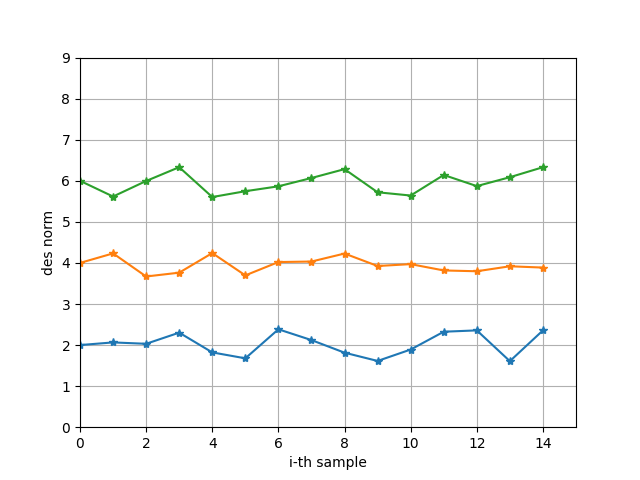
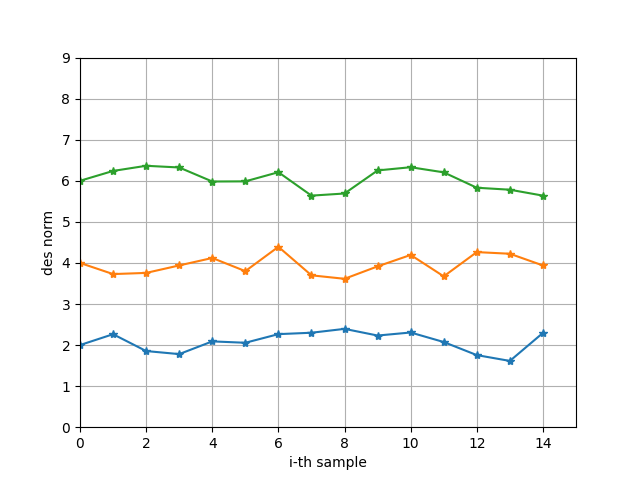
version demo funcional

diff --git a/src/estimate_trajectories.py b/src/estimate_trajectories.py
@@ -3,7 +3,7 @@
 
 import numpy as np
 import pandas as pd
-import random
+import os
 import matplotlib.pyplot as plt
 from generate_trajectories import TraGen
 from munkres import Munkres, print_matrix
@@ -51,11 +51,19 @@ class TraEstim:
         print(transitions.shape)
 
         estim_traj = self.estimate_trajectories(observations=pos_obs, op="hungarian")
-        # estim_traj = self.estimate_trajectories(observations=des_obs, op="hungarian")
         print(estim_traj)
         print(estim_traj.shape)
 
         self.plot_estimated_trajectories(pos_obs, estim_traj)
+        os.rename(
+            "plot_estimated_trajectories.png", "plot_estimated_trajectories_pos.png"
+        )
+
+        estim_traj = self.estimate_trajectories(observations=des_obs, op="hungarian")
+        self.plot_estimated_trajectories(pos_obs, estim_traj)
+        os.rename(
+            "plot_estimated_trajectories.png", "plot_estimated_trajectories_des.png"
+        )
 
     def plot_estimated_trajectories(
         self, observations: np.ndarray, estim_traj: np.ndarray
@@ -128,12 +136,12 @@ class TraEstim:
             obs1 = observations[:, si, :]
             obs0 = observations[:, si - 1, :]
             transitions = self.chose_predecessor(obs1, obs0, op=op)
-            print("transitions")
-            print(transitions)
+            # print("transitions")
+            # print(transitions)
             # print(transitions.shape)
 
             previous_bbox = transitions[:, 0]
-            print(previous_bbox)
+            # print(previous_bbox)
             estim_traj[:, si - 1] = previous_bbox
 
         return np.array(estim_traj)

diff --git a/README.md b/README.md
@@ -1,2 +1,26 @@
 # similarity_tracking
 Tracking bboxes using similarity meassures
+
+Esta pequeña demo busca validar conceptualmente un tracking de objetos basado en un detector (bbox) y un modelo descriptor (descriptor). La idea es minimizar el error al re-asignar los bboxes detectados en el frame actual al compararlos con el frame anterior. El error puede ser definido como la norma de la diferencia entre posiciones entre bboxes, pero tambien puedes ser incorporado el error en la diferencia de vectores descritpores. 
+
+La hipotesis subyacente es que minimzar el error en la posicion es suceptible a confusiones de objetos. En cambio esa confusion es minimizada al incorporar la medida de distancia entre vectores descriptores en cada frame y camparalo con los frames anteriores
+
+***La asignacio entre el frame actual y el anterior se hace con el método hungaro.***. 
+
+## Ejemplo de uso en una caminata aleatoria 
+
+Esta caminata esa aleatoria, pero esta segada hacia la esquina sup der.
+
+Trayectoria de posición real
+![](plot_pos_trajectory.png)
+
+Trayectoria de descriptores real
+![](plot_des_trajectory.png)
+
+Trayectoria estimada minimzando el error en la posición
+![](plot_estimated_trajectories_pos.png)
+
+Trayectoria estimada minimzando el error en el descriptor
+![](plot_estimated_trajectories_des.png)
+
+Como se puede apreciar la minimización del error en el descriptor es superior al minimzar el error en la posición. ***Obviamente esto que los objetos detectados son disimiles a nivel de descriptores***. Esto es razonable en el caso de objetos de naturaleza distinta (una manzana y un zapato), pero no lo sería tanto en caso de objetos iguales (dos manzanas).
